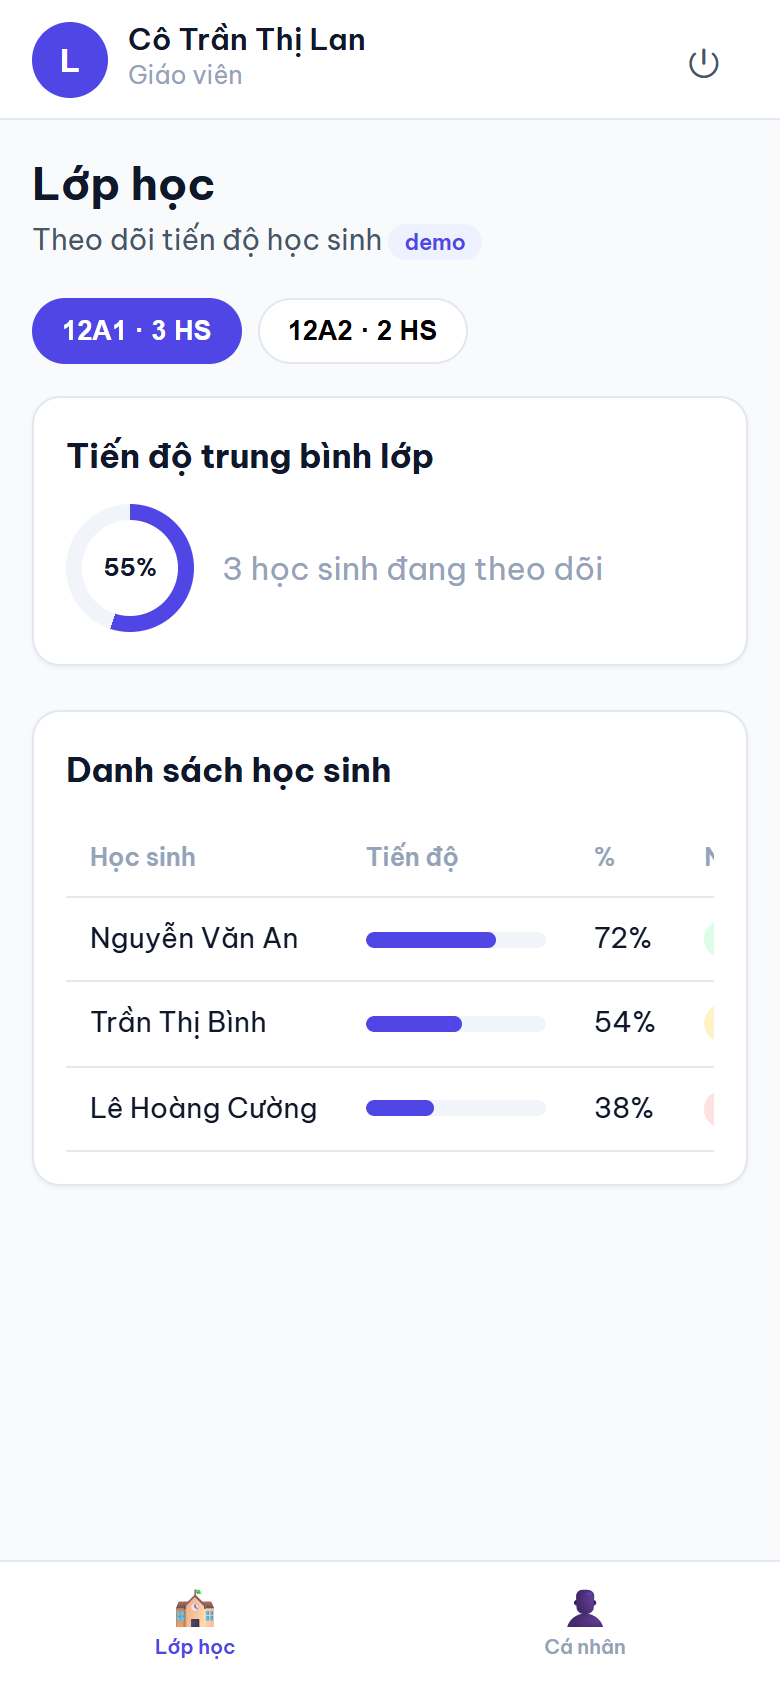
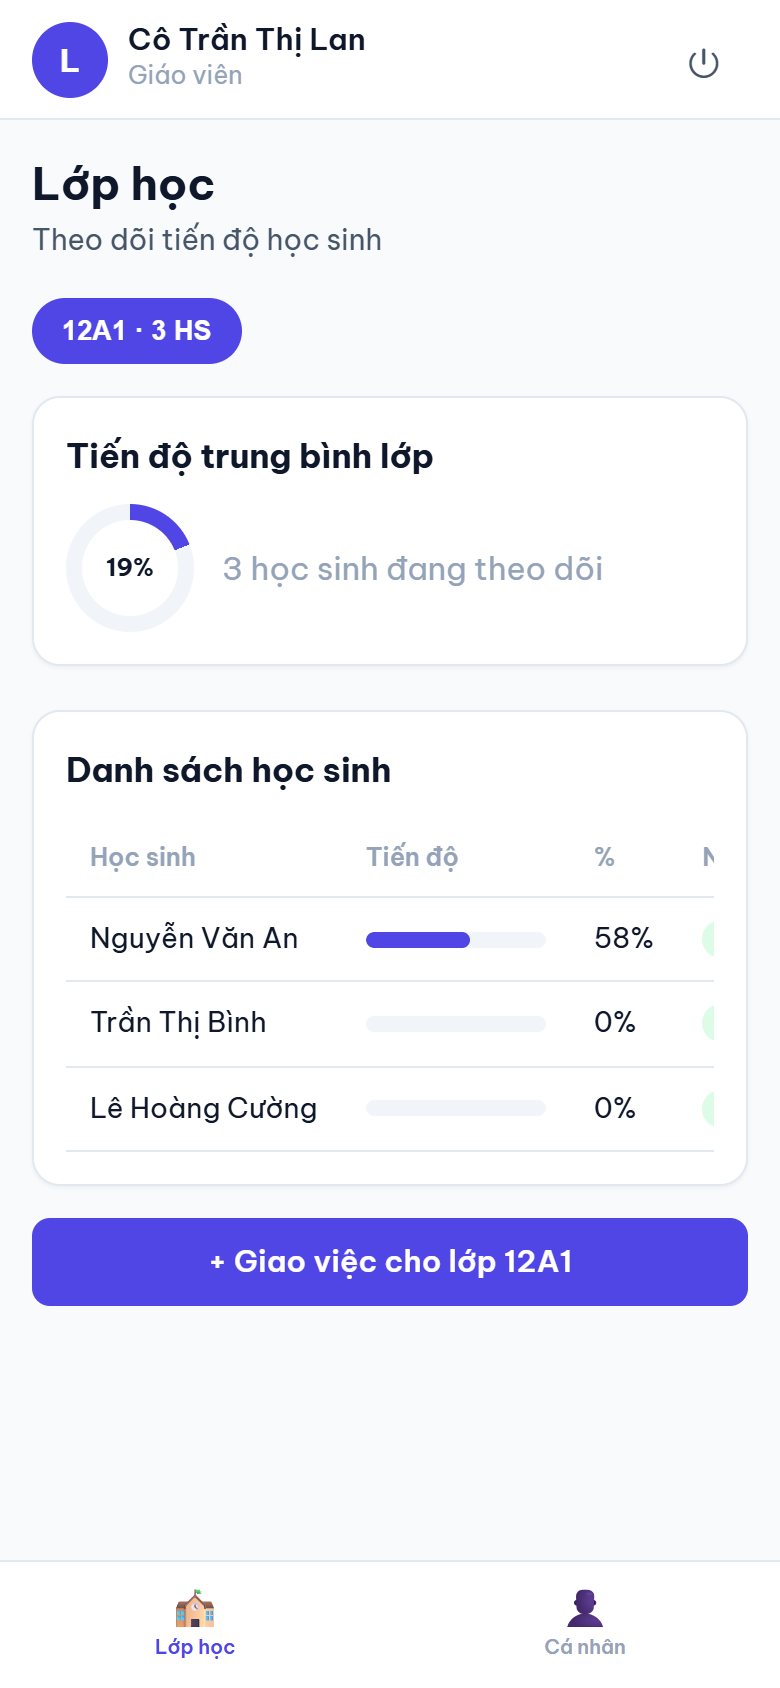
Prompt 4.1-4.2: màn hình giáo viên + giao việc (dữ liệu thật)
Backend (đã push GAS v3):
- Classes.gs: getTeacherData (lớp + học sinh + tiến độ TB + nhiệm vụ trễ),
  assignTask (giao 1 HS hoặc cả lớp, set assignedBy, kiểm canAccessClass)
- Code.gs: đăng ký action getTeacherData, assignTask

Frontend:
- app.js: loadTeacherData sau đăng nhập GV; renderTeacher dùng App.data.classes;
  form giao việc (chọn HS/cả lớp, môn, hạn) qua Api.call, làm mới sau khi giao
- api.js: MockApi hỗ trợ getTeacherData + assignTask

Test end-to-end: GV xem 3 HS tiến độ thật, giao cả lớp → 3 HS nhận,
học sinh nhận đúng nhiệm vụ có assignedBy.

diff --git a/frontend/app.js b/frontend/app.js
@@ -5,7 +5,7 @@
 
 const App = {
   state: { user: null, role: null, token: null, calDayOffset: 0, tab: 'today' },
-  data: { plans: [], goals: [], exam: null, notes: [] },
+  data: { plans: [], goals: [], exam: null, notes: [], classes: [] },
 };
 
 /* ---------- Helpers ---------- */
@@ -57,6 +57,7 @@ async function doLogin(email, password) {
     App.state.role = data.user.role;
     try { localStorage.setItem('thpt_token', data.token); } catch (e) {}
     if (data.user.role === 'STUDENT') await loadStudentData();
+    else if (data.user.role === 'TEACHER') await loadTeacherData();
     enterApp();
   } catch (e) {
     showToast(e.message || 'Đăng nhập thất bại', 'error');
@@ -77,6 +78,11 @@ async function loadStudentData() {
   App.data.goals = d.goals || [];
   App.data.exam = d.exam || null;
   App.data.notes = d.notes || [];
+}
+
+async function loadTeacherData() {
+  const d = await Api.call('getTeacherData', {});
+  App.data.classes = d.classes || [];
 }
 
 function enterApp() {
@@ -103,7 +109,8 @@ function enterApp() {
 function logout() {
   App.state.user = null;
   App.state.token = null;
-  App.data = { plans: [], goals: [], exam: null, notes: [] };
+  App.data = { plans: [], goals: [], exam: null, notes: [], classes: [] };
+  App._activeClass = null;
   try { localStorage.removeItem('thpt_token'); } catch (e) {}
   $('#app-shell').classList.add('hidden');
   $('#screen-login').classList.remove('hidden');
@@ -388,25 +395,37 @@ function renderProfile() {
 }
 
 /* ============================================================
-   GIÁO VIÊN (tạm dùng dữ liệu mẫu — sẽ nối thật ở Prompt 4.x)
+   GIÁO VIÊN (dữ liệu thật)
    ============================================================ */
 function renderTeacher() {
-  if (!App._activeClass) App._activeClass = MOCK.classes[0].classId;
-  const tabs = MOCK.classes.map((c) => `
+  const classes = App.data.classes || [];
+  if (!classes.length) {
+    $('#screen-teacher').innerHTML = `
+      <div class="page-head"><h2>Lớp học</h2><p>Theo dõi tiến độ học sinh</p></div>
+      <div class="card"><div class="empty">Bạn chưa phụ trách lớp nào.</div></div>`;
+    return;
+  }
+  if (!App._activeClass || !classes.find((c) => c.classId === App._activeClass)) {
+    App._activeClass = classes[0].classId;
+  }
+  const active = classes.find((c) => c.classId === App._activeClass);
+
+  const tabs = classes.map((c) => `
     <button class="class-tab ${c.classId === App._activeClass ? 'active' : ''}" onclick="selectClass('${c.classId}')">
       ${c.name} · ${c.studentCount} HS
     </button>`).join('');
-  const students = MOCK.classStudents[App._activeClass] || [];
-  const rows = students.map((s) => {
+
+  const students = active.students || [];
+  const rows = students.length ? students.map((s) => {
     const pill = s.late === 0 ? 'pill-ok' : (s.late <= 2 ? 'pill-warn' : 'pill-late');
     return `<tr><td>${s.name}</td>
       <td><div class="bar" style="width:90px"><i style="width:${s.progress}%"></i></div></td>
       <td>${s.progress}%</td><td><span class="pill ${pill}">${s.late} trễ</span></td></tr>`;
-  }).join('');
+  }).join('') : `<tr><td colspan="4" class="muted" style="text-align:center">Lớp chưa có học sinh</td></tr>`;
   const avg = students.length ? Math.round(students.reduce((a, s) => a + s.progress, 0) / students.length) : 0;
 
   $('#screen-teacher').innerHTML = `
-    <div class="page-head"><h2>Lớp học</h2><p>Theo dõi tiến độ học sinh <span class="badge-assigned">demo</span></p></div>
+    <div class="page-head"><h2>Lớp học</h2><p>Theo dõi tiến độ học sinh</p></div>
     <div class="class-tabs">${tabs}</div>
     <div class="card section-block">
       <div class="section-title">Tiến độ trung bình lớp</div>
@@ -420,9 +439,40 @@ function renderTeacher() {
       <div class="table-wrap"><table class="data">
         <thead><tr><th>Học sinh</th><th>Tiến độ</th><th>%</th><th>Nhiệm vụ</th></tr></thead>
         <tbody>${rows}</tbody></table></div>
-    </div>`;
+    </div>
+    <button class="btn btn-primary btn-block" style="margin-top:16px" onclick="openAssignModal()">+ Giao việc cho lớp ${active.name}</button>`;
 }
 function selectClass(cid) { App._activeClass = cid; renderTeacher(); }
+
+function openAssignModal() {
+  const active = (App.data.classes || []).find((c) => c.classId === App._activeClass);
+  if (!active) return;
+  const studentOpts = ['<option value="">📋 Cả lớp (' + active.studentCount + ' HS)</option>']
+    .concat((active.students || []).map((s) => `<option value="${s.userId}">${s.name}</option>`)).join('');
+  openModal('Giao việc · ' + active.name, `
+    <label class="field"><span>Giao cho</span><select id="m-target">${studentOpts}</select></label>
+    <label class="field"><span>Nhiệm vụ</span><input id="m-title" placeholder="VD: Làm đề ôn số 3" /></label>
+    <label class="field"><span>Môn học</span><select id="m-subject">${subjectOptions('TOAN')}</select></label>
+    <label class="field"><span>Hạn nộp</span><input type="date" id="m-date" value="${dayjs().add(2, 'day').format('YYYY-MM-DD')}" /></label>
+    <button class="btn btn-primary btn-block" onclick="saveAssign()">Giao việc</button>`);
+}
+async function saveAssign() {
+  const title = $('#m-title').value.trim();
+  if (!title) { showToast('Nhập tên nhiệm vụ', 'error'); return; }
+  const payload = {
+    classId: App._activeClass,
+    studentId: $('#m-target').value || undefined,
+    title: title, subject: $('#m-subject').value, dueDate: $('#m-date').value,
+  };
+  showLoading();
+  try {
+    const r = await Api.call('assignTask', payload);
+    await loadTeacherData(); // làm mới tiến độ/nhiệm vụ trễ
+    closeModal(); rerender();
+    showToast('Đã giao việc cho ' + r.assigned + ' học sinh', 'success');
+  } catch (e) { showToast(e.message, 'error'); }
+  finally { hideLoading(); }
+}
 
 /* ============================================================
    MODAL

diff --git a/tools/diag.js b/tools/diag.js
@@ -1,4 +1,4 @@
-// Chẩn đoán toàn bộ luồng dữ liệu học sinh trên backend thật.
+// Chẩn đoán luồng giáo viên trên backend thật.
 const puppeteer = require('puppeteer-core');
 const path = require('path');
 const EDGE = 'C:/Program Files (x86)/Microsoft/Edge/Application/msedge.exe';
@@ -13,29 +13,33 @@ const url = 'file:///' + path.join(ROOT, 'frontend', 'index.html').replace(/\\/g
   const out = await p.evaluate(async () => {
     const log = [];
     try {
-      const login = await Api.call('login', { email: 'hocsinh@demo.com', password: '123456' });
-      App.state.token = login.token;
-      log.push('login: ' + login.user.name + ' (' + login.user.role + ')');
+      // Giáo viên
+      const t = await Api.call('login', { email: 'giaovien@demo.com', password: '123456' });
+      App.state.token = t.token;
+      log.push('login GV: ' + t.user.name);
 
-      const data = await Api.call('getStudentData', {});
-      log.push('getStudentData: plans=' + data.plans.length + ' goals=' + data.goals.length +
-        ' exam=' + (data.exam ? 'có (' + (data.exam.checklist || []).length + ' mục)' : 'null') +
-        ' notes=' + data.notes.length);
+      const td = await Api.call('getTeacherData', {});
+      const c = td.classes[0];
+      log.push('getTeacherData: ' + td.classes.length + ' lớp; lớp ' + c.name + ' có ' + c.studentCount + ' HS');
+      c.students.forEach((s) => log.push('  - ' + s.name + ': ' + s.progress + '%, ' + s.late + ' trễ'));
 
-      const saved = await Api.call('savePlan', { plan: { title: 'TEST nhiệm vụ ' + Date.now(), subject: 'LY', dueDate: '2026-06-24', status: 'TODO' } });
-      log.push('savePlan: tạo ' + saved.planId);
+      // Giao việc cho cả lớp
+      const a = await Api.call('assignTask', { classId: c.classId, title: 'TEST đề ôn ' + Date.now(), subject: 'TOAN', dueDate: '2026-06-25' });
+      log.push('assignTask cả lớp: giao cho ' + a.assigned + ' HS');
 
-      const del = await Api.call('deletePlan', { planId: saved.planId });
-      log.push('deletePlan: ' + JSON.stringify(del));
+      // Đăng nhập học sinh kiểm tra đã nhận
+      const s = await Api.call('login', { email: 'hocsinh@demo.com', password: '123456' });
+      App.state.token = s.token;
+      const sd = await Api.call('getStudentData', {});
+      const assigned = sd.plans.filter((p) => p.assignedBy && p.title.indexOf('TEST đề ôn') === 0);
+      log.push('HS An nhận: ' + assigned.length + ' nhiệm vụ TEST (assignedBy=' + (assigned[0] ? assigned[0].assignedBy : 'none') + ')');
+      // dọn dẹp
+      for (const pl of assigned) await Api.call('deletePlan', { planId: pl.planId });
+      log.push('đã dọn ' + assigned.length + ' nhiệm vụ test');
 
-      const g = await Api.call('saveGoal', { goal: { title: 'TEST mục tiêu', subject: 'HOA', progress: 33 } });
-      log.push('saveGoal: ' + g.goalId + ' progress=' + g.progress);
-      await Api.call('deleteGoal', { goalId: g.goalId });
-      log.push('deleteGoal: ok');
-
-      return { ok: true, log: log };
+      return { ok: true, log };
     } catch (e) {
-      return { ok: false, log: log, error: String(e && e.message || e) };
+      return { ok: false, log, error: String(e && e.message || e) };
     }
   });
   console.log(JSON.stringify(out, null, 2));

diff --git a/frontend/api.js b/frontend/api.js
@@ -108,6 +108,23 @@ const MockApi = {
       }
       case 'deleteNote': return { deleted: payload.noteId };
 
+      case 'getTeacherData':
+        return {
+          teacher: MOCK.teacher,
+          classes: MOCK.classes.map((c) => ({
+            classId: c.classId, name: c.name,
+            studentCount: (MOCK.classStudents[c.classId] || []).length,
+            students: (MOCK.classStudents[c.classId] || []).map((s, i) => ({
+              userId: c.classId + '_' + i, name: s.name, progress: s.progress, late: s.late,
+            })),
+          })),
+        };
+      case 'assignTask': {
+        const cls = MOCK.classes.find((c) => c.classId === payload.classId);
+        const n = payload.studentId ? 1 : ((MOCK.classStudents[payload.classId] || []).length);
+        return { assigned: n };
+      }
+
       default:
         throw new Error('Chế độ demo chưa hỗ trợ "' + action + '".');
     }
